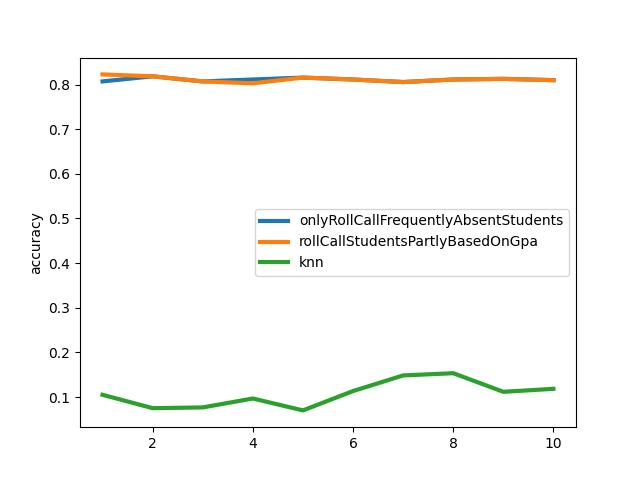
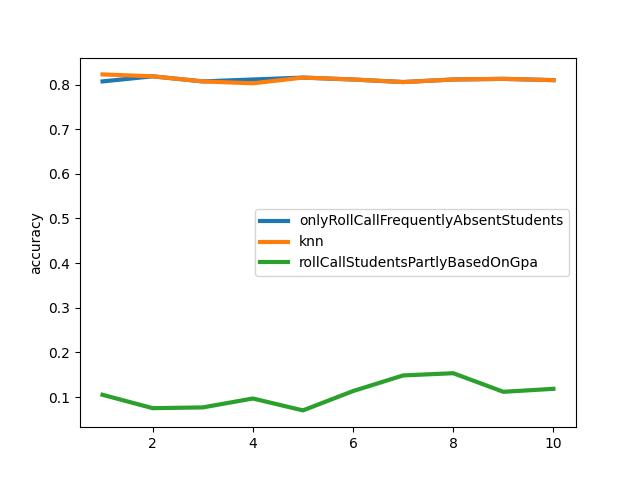
docs(README.md): fix label wrong in image

Changed region(s): [[0.4688, 0.4688, 0.8438, 0.5625]]

diff --git a/draw/draw_image.py b/draw/draw_image.py
@@ -15,8 +15,8 @@ if __name__ == "__main__":
     fileList = filter(lambda x:".json" not in x,list(os.listdir(prefix)))
     y =  [read(prefix+os.sep+fileName) for fileName in fileList]
     plt.plot([i for i in range(1,size+1)],y[0],linewidth=linewidth,label="onlyRollCallFrequentlyAbsentStudents")
-    plt.plot([i for i in range(1,size+1)],y[1],linewidth=linewidth,label="rollCallStudentsPartlyBasedOnGpa")
-    plt.plot([i for i in range(1,size+1)],y[2],linewidth=linewidth,label="knn")
+    plt.plot([i for i in range(1,size+1)],y[2],linewidth=linewidth,label="rollCallStudentsPartlyBasedOnGpa")
+    plt.plot([i for i in range(1,size+1)],y[1],linewidth=linewidth,label="knn")
     plt.ylabel("accuracy")
     plt.legend()
 
